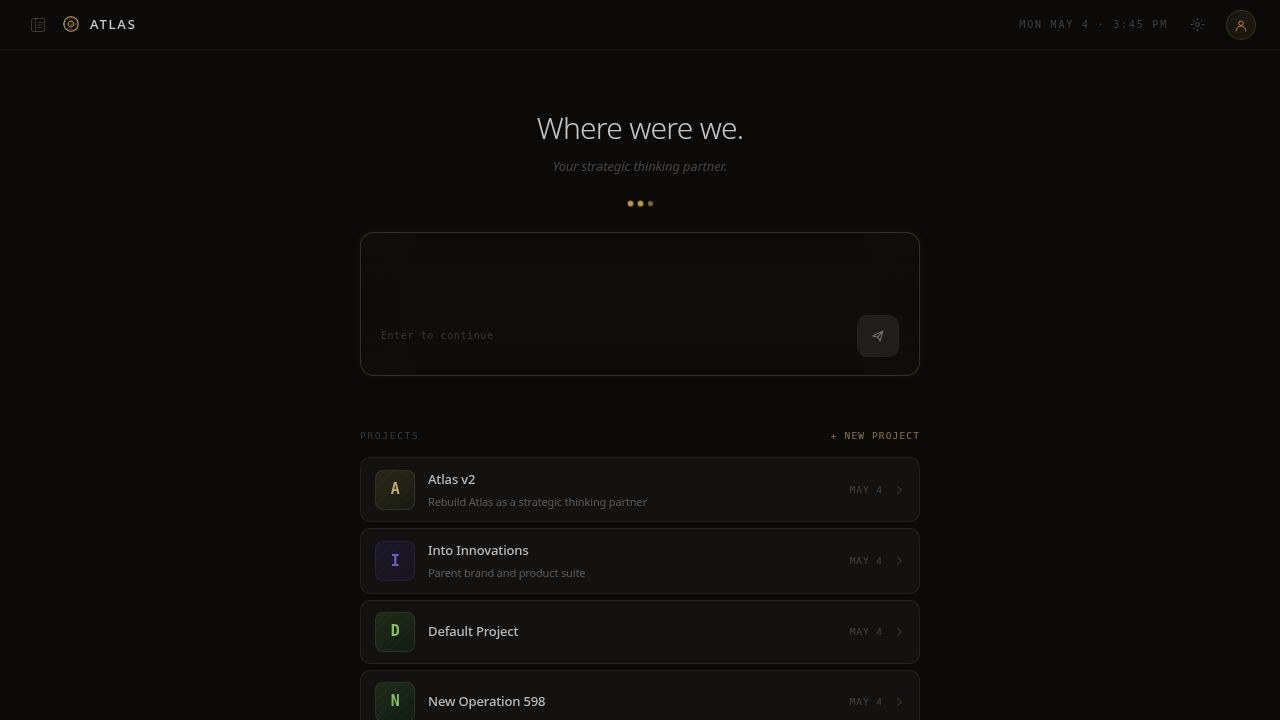
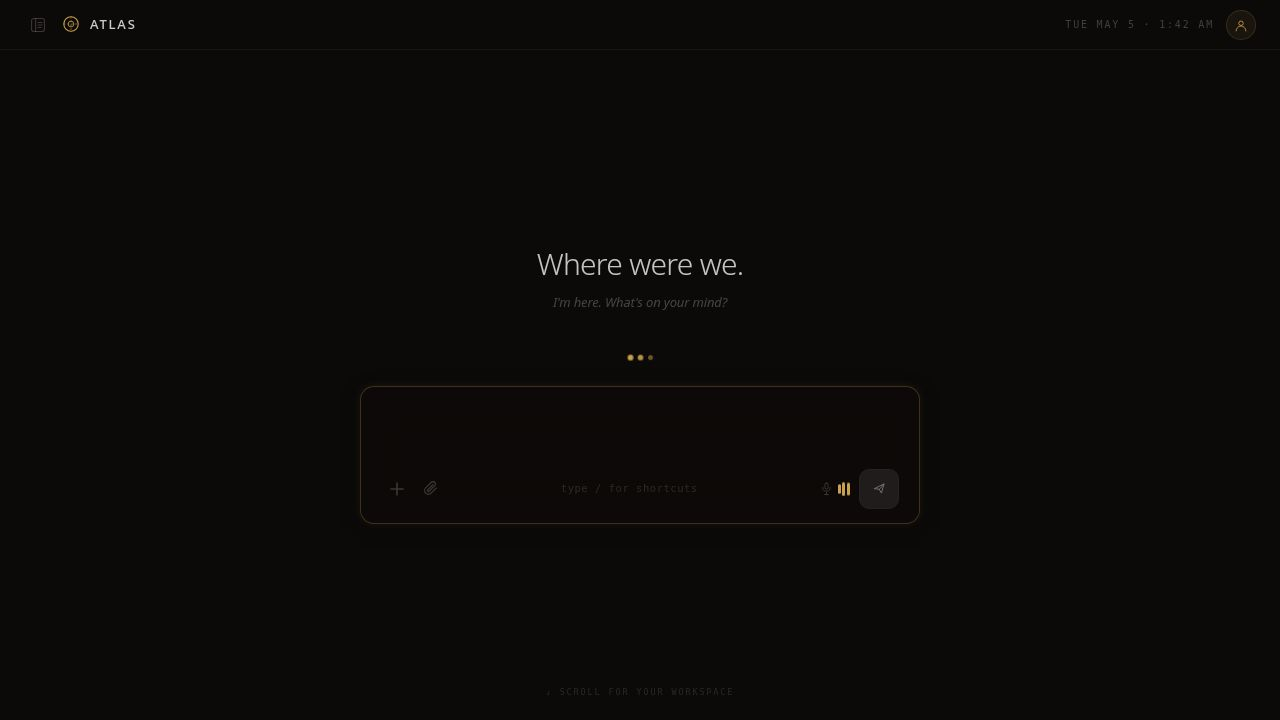
Add image generation capabilities to the chat interface and persist GitHub token to database
Integrates Gemini API for image generation in chat, enhances project data model to include GitHub token and linked repository persistence in the database, and removes local storage for these items.

Replit-Commit-Author: Agent
Replit-Commit-Session-Id: f735b07f-eb8e-460e-8233-0bdf3df13fac
Replit-Commit-Checkpoint-Type: full_checkpoint
Replit-Commit-Event-Id: 39e0b95f-83c6-4024-aad7-1b97ee8aeea6
Replit-Commit-Screenshot-Url: https://storage.googleapis.com/screenshot-production-us-central1/fee20bc2-8f8b-480d-9a00-8a020487f43d/f735b07f-eb8e-460e-8233-0bdf3df13fac/1sIiY6F
Replit-Helium-Checkpoint-Created: true

diff --git a/artifacts/atlas/src/pages/workspace.tsx b/artifacts/atlas/src/pages/workspace.tsx
@@ -55,6 +55,8 @@ interface ChatMessage {
   fileEdits?: FileEdit[];
   memoryChips?: string[];
   sentAt?: string;
+  imageB64?: string;
+  imageMimeType?: string;
 }
 
 interface LinkedRepo {
@@ -648,7 +650,8 @@ function GitHubPushModal({
   const [rollingBack, setRollingBack] = useState(false);
   const [rolledBack, setRolledBack] = useState(false);
 
-  const token = (() => { try { return localStorage.getItem("atlas-gh-token"); } catch { return null; } })();
+  const { data: modalProject } = useGetProject(projectId, { query: { queryKey: getGetProjectQueryKey(projectId) } });
+  const token = modalProject?.githubToken ?? null;
 
   useEffect(() => {
     if (!linkedRepo || !token) { setLoadingOriginals(false); return; }
@@ -978,6 +981,16 @@ function AssistantBubble({
                 {chip}
               </span>
             ))}
+          </div>
+        )}
+
+        {message.imageB64 && (
+          <div style={{ marginBottom: 12 }}>
+            <img
+              src={`data:${message.imageMimeType ?? "image/png"};base64,${message.imageB64}`}
+              alt="Generated visual"
+              style={{ maxWidth: "100%", borderRadius: 10, border: "1px solid rgba(201,162,76,0.2)", display: "block" }}
+            />
           </div>
         )}
 
@@ -1781,15 +1794,24 @@ function GhTreeNodeRow({
 function FilesTab({
   projectId,
   onFileContext,
+  onLinkedRepoChange,
 }: {
   projectId: number;
   onFileContext: (ctx: string | null) => void;
+  onLinkedRepoChange: (repo: LinkedRepo | null) => void;
 }) {
-  const linkedKey = `atlas-gh-linked-${projectId}`;
-
-  const [tokenState, setTokenState] = useState<string | null>(() => {
-    try { return localStorage.getItem("atlas-gh-token"); } catch { return null; }
+  const updateProject = useUpdateProject();
+  const { data: filesProject } = useGetProject(projectId, {
+    query: { queryKey: getGetProjectQueryKey(projectId) },
   });
+
+  const [tokenState, setTokenState] = useState<string | null>(null);
+  const tokenSynced = useRef(false);
+  useEffect(() => {
+    if (!filesProject || tokenSynced.current) return;
+    tokenSynced.current = true;
+    setTokenState(filesProject.githubToken ?? null);
+  }, [filesProject]);
   const [tokenInput, setTokenInput] = useState("");
   const [repos, setRepos] = useState<GhRepo[]>([]);
   const [reposLoading, setReposLoading] = useState(false);
@@ -1819,12 +1841,12 @@ function FilesTab({
   }, [projectId]);
 
   const saveToken = (t: string) => {
-    try { localStorage.setItem("atlas-gh-token", t); } catch {}
+    updateProject.mutate({ id: projectId, data: { githubToken: t } });
     setTokenState(t);
   };
 
   const clearToken = () => {
-    try { localStorage.removeItem("atlas-gh-token"); } catch {}
+    updateProject.mutate({ id: projectId, data: { githubToken: null } });
     setTokenState(null);
     setRepos([]); setSelectedRepo(null); setTree([]);
     setSelectedPath(null); setFileContent(null);
@@ -1872,30 +1894,30 @@ function FilesTab({
     }
   }, [ghFetch, onFileContext]);
 
-  // Auto-load linked repo once repos are available
+  // Auto-load linked repo once repos are available (from DB)
   useEffect(() => {
-    if (autoLoadedRef.current || repos.length === 0) return;
+    if (autoLoadedRef.current || repos.length === 0 || !filesProject?.linkedRepo) return;
     try {
-      const saved = localStorage.getItem(linkedKey);
-      if (!saved) return;
-      const savedRepo = JSON.parse(saved) as GhRepo;
+      const savedRepo = JSON.parse(filesProject.linkedRepo) as GhRepo;
       const match = repos.find(r => r.fullName === savedRepo.fullName);
       if (match) {
         autoLoadedRef.current = true;
         loadTree(match);
       }
     } catch {}
-  }, [repos, linkedKey, loadTree]);
+  }, [repos, filesProject?.linkedRepo, loadTree]);
 
   // Link a repo to this project and load its tree
   const pickRepo = useCallback((repo: GhRepo) => {
-    try { localStorage.setItem(linkedKey, JSON.stringify(repo)); } catch {}
+    updateProject.mutate({ id: projectId, data: { linkedRepo: JSON.stringify(repo) } });
+    onLinkedRepoChange(repo);
     loadTree(repo);
-  }, [linkedKey, loadTree]);
+  }, [projectId, updateProject, onLinkedRepoChange, loadTree]);
 
   // Unlink the repo from this project
   const unlinkRepo = useCallback(() => {
-    try { localStorage.removeItem(linkedKey); } catch {}
+    updateProject.mutate({ id: projectId, data: { linkedRepo: null } });
+    onLinkedRepoChange(null);
     autoLoadedRef.current = false;
     setSelectedRepo(null);
     setTree([]);
@@ -1903,7 +1925,7 @@ function FilesTab({
     setFileContent(null);
     setView("repos");
     onFileContext(null);
-  }, [linkedKey, onFileContext]);
+  }, [projectId, updateProject, onLinkedRepoChange, onFileContext]);
 
   const loadFile = useCallback(async (path: string) => {
     if (!selectedRepo) return;
@@ -2084,8 +2106,7 @@ function FilesTab({
           {!reposLoading && repos.map((repo) => {
             let linkedFullName: string | null = null;
             try {
-              const saved = localStorage.getItem(linkedKey);
-              linkedFullName = saved ? JSON.parse(saved).fullName : null;
+              linkedFullName = filesProject?.linkedRepo ? JSON.parse(filesProject.linkedRepo).fullName : null;
             } catch {}
             const isLinked = linkedFullName === repo.fullName;
             return (
@@ -2231,13 +2252,9 @@ function PreviewTab({ projectId }: { projectId: number }) {
   const [devReloadKey, setDevReloadKey] = useState(0);
   const devLogRef = useRef<HTMLDivElement>(null);
 
-  const linkedRepo = (() => {
-    try {
-      const raw = localStorage.getItem(`atlas-gh-linked-${projectId}`);
-      return raw ? JSON.parse(raw) as { fullName: string; defaultBranch?: string } : null;
-    } catch { return null; }
-  })();
-  const token = (() => { try { return localStorage.getItem("atlas-gh-token"); } catch { return null; } })();
+  const { data: previewProject } = useGetProject(projectId, { query: { queryKey: getGetProjectQueryKey(projectId) } });
+  const linkedRepo = (() => { try { return previewProject?.linkedRepo ? JSON.parse(previewProject.linkedRepo) as { fullName: string; defaultBranch?: string } : null; } catch { return null; } })();
+  const token = previewProject?.githubToken ?? null;
 
   // Poll dev server status when in local mode
   useEffect(() => {
@@ -2805,13 +2822,9 @@ function MapTab({ projectId }: { projectId: number }) {
   const [error, setError] = useState<string | null>(null);
   const [savedToMemory, setSavedToMemory] = useState(false);
 
-  const token = (() => { try { return localStorage.getItem("atlas-gh-token"); } catch { return null; } })();
-  const linkedRepo = (() => {
-    try {
-      const raw = localStorage.getItem(`atlas-gh-linked-${projectId}`);
-      return raw ? JSON.parse(raw) as { fullName: string; defaultBranch: string } : null;
-    } catch { return null; }
-  })();
+  const { data: mapProject } = useGetProject(projectId, { query: { queryKey: getGetProjectQueryKey(projectId) } });
+  const token = mapProject?.githubToken ?? null;
+  const linkedRepo = (() => { try { return mapProject?.linkedRepo ? JSON.parse(mapProject.linkedRepo) as { fullName: string; defaultBranch: string } : null; } catch { return null; } })();
 
   const handleScan = async () => {
     if (!linkedRepo || !token) return;
@@ -3175,6 +3188,7 @@ function RightPanel({
   fullscreen,
   onToggleFullscreen,
   onFileContext,
+  onLinkedRepoChange,
   pushHistory,
   onRollbackPush,
 }: {
@@ -3185,6 +3199,7 @@ function RightPanel({
   fullscreen?: boolean;
   onToggleFullscreen?: () => void;
   onFileContext: (ctx: string | null) => void;
+  onLinkedRepoChange: (repo: LinkedRepo | null) => void;
   pushHistory: PushRecord[];
   onRollbackPush: (record: PushRecord) => Promise<void>;
 }) {
@@ -3362,7 +3377,7 @@ function RightPanel({
       {tab === "ledger" && (
         <LedgerTab projectId={projectId} entries={entries} activeCatch={activeCatch} pushHistory={pushHistory} onRollbackPush={onRollbackPush} />
       )}
-      {tab === "files" && <FilesTab projectId={projectId} onFileContext={onFileContext} />}
+      {tab === "files" && <FilesTab projectId={projectId} onFileContext={onFileContext} onLinkedRepoChange={onLinkedRepoChange} />}
       {tab === "preview" && <PreviewTab projectId={projectId} />}
       {tab === "memory" && <MemoryTab projectId={projectId} />}
       {tab === "map" && <MapTab projectId={projectId} />}
@@ -3394,12 +3409,7 @@ export default function Workspace() {
   const [rightFullscreen, setRightFullscreen] = useState(false);
   const [fileContext, setFileContext] = useState<string | null>(null);
   const [chatPending, setChatPending] = useState(false);
-  const [linkedRepo, setLinkedRepo] = useState<LinkedRepo | null>(() => {
-    try {
-      const raw = localStorage.getItem(`atlas-gh-linked-${Number(projectId)}`);
-      return raw ? JSON.parse(raw) as LinkedRepo : null;
-    } catch { return null; }
-  });
+  const [linkedRepo, setLinkedRepo] = useState<LinkedRepo | null>(null);
 
   const bottomRef = useRef<HTMLDivElement>(null);
   const textareaRef = useRef<HTMLTextAreaElement>(null);
@@ -3435,6 +3445,15 @@ export default function Workspace() {
       }))
     );
   }, [priorMessages]);
+
+  // Sync linkedRepo from project DB when project loads
+  useEffect(() => {
+    if (!project?.linkedRepo) return;
+    try {
+      const repo = JSON.parse(project.linkedRepo) as LinkedRepo;
+      setLinkedRepo(repo);
+    } catch {}
+  }, [project?.linkedRepo]);
 
   // Persist last visited project for footer LEDGER shortcut
   useEffect(() => {
@@ -3501,6 +3520,7 @@ export default function Workspace() {
             sentAt: new Date().toISOString(),
             ...(fes.length > 0 ? { fileEdits: fes, fileEdit: fes[0] } : {}),
             ...(chips.length > 0 ? { memoryChips: chips } : {}),
+            ...(res.imageB64 ? { imageB64: res.imageB64, imageMimeType: res.imageMimeType } : {}),
           }]);
           if (cp) setActiveCatch(cp);
           if (res.memoryChips && res.memoryChips.length > 0) {
@@ -3619,7 +3639,7 @@ export default function Workspace() {
   );
 
   const handleRollbackPush = useCallback(async (record: PushRecord) => {
-    const token = (() => { try { return localStorage.getItem("atlas-gh-token"); } catch { return null; } })();
+    const token = project?.githubToken ?? null;
     if (!linkedRepo || !token || !record.originalContent) return;
     await fetch("/api/github/commit", {
       method: "PUT",
@@ -4052,6 +4072,7 @@ export default function Workspace() {
                 entries={entries || []}
                 activeCatch={activeCatch}
                 onFileContext={setFileContext}
+                onLinkedRepoChange={setLinkedRepo}
                 pushHistory={pushHistory}
                 onRollbackPush={handleRollbackPush}
               />
@@ -4100,6 +4121,7 @@ export default function Workspace() {
                 fullscreen={rightFullscreen}
                 onToggleFullscreen={() => setRightFullscreen((f) => !f)}
                 onFileContext={setFileContext}
+                onLinkedRepoChange={setLinkedRepo}
                 pushHistory={pushHistory}
                 onRollbackPush={handleRollbackPush}
               />

diff --git a/artifacts/api-server/src/routes/chat.ts b/artifacts/api-server/src/routes/chat.ts
@@ -1,7 +1,12 @@
 import { Router, type IRouter } from "express";
 import Anthropic from "@anthropic-ai/sdk";
+import { GoogleGenAI } from "@google/genai";
 import { db, chatMessagesTable, sessionsTable, projectsTable } from "@workspace/db";
 import { eq, sql } from "drizzle-orm";
+
+const genai = new GoogleGenAI({ apiKey: process.env.GOOGLE_GEMINI_API_KEY! });
+
+const IMAGE_REQUEST_RE = /\b(generate|create|make|draw|sketch|visualize|design|mock.?up|wireframe|show me|build me)\b.{0,60}\b(image|picture|visual|ui|screen|layout|logo|icon|banner|mockup|diagram|chart|graphic|illustration)\b/i;
 
 const router: IRouter = Router();
 
@@ -449,6 +454,28 @@ router.post("/chat", async (req, res): Promise<void> => {
     .set({ messageCount: sql`${sessionsTable.messageCount} + 2` })
     .where(eq(sessionsTable.id, sessionId));
 
+  // Attempt image generation if the user's message looks like an image request
+  let imageB64: string | undefined;
+  let imageMimeType: string | undefined;
+  if (IMAGE_REQUEST_RE.test(message)) {
+    try {
+      const imagePrompt = `${message}. Clean, professional style. For a software product / startup context.`;
+      const imgResponse = await genai.models.generateContent({
+        model: "gemini-2.0-flash-preview-image-generation",
+        contents: imagePrompt,
+        config: { responseModalities: ["IMAGE", "TEXT"] },
+      });
+      const parts = imgResponse.candidates?.[0]?.content?.parts ?? [];
+      const imgPart = parts.find((p: any) => p.inlineData?.mimeType?.startsWith("image/"));
+      if (imgPart?.inlineData) {
+        imageB64 = imgPart.inlineData.data as string;
+        imageMimeType = imgPart.inlineData.mimeType as string;
+      }
+    } catch {
+      // Image generation is best-effort; don't fail the chat response
+    }
+  }
+
   res.json({
     content: finalContent,
     intentType: null,
@@ -458,6 +485,7 @@ router.post("/chat", async (req, res): Promise<void> => {
     memoryUpdated: newFacts.length > 0,
     fileEdits: fileEdits.length > 0 ? fileEdits : undefined,
     fileEdit: fileEdits.length > 0 ? fileEdits[0] : undefined,
+    ...(imageB64 ? { imageB64, imageMimeType } : {}),
   });
 });
 

diff --git a/lib/db/src/schema/projects.ts b/lib/db/src/schema/projects.ts
@@ -9,6 +9,8 @@ export const projectsTable = pgTable("projects", {
   status: text("status").notNull().default("active"),
   memory: text("memory"),
   previewUrl: text("preview_url"),
+  githubToken: text("github_token"),
+  linkedRepo: text("linked_repo"),
   createdAt: timestamp("created_at", { withTimezone: true }).notNull().defaultNow(),
   updatedAt: timestamp("updated_at", { withTimezone: true }).notNull().defaultNow().$onUpdate(() => new Date()),
 });

diff --git a/lib/api-zod/src/index.ts b/lib/api-zod/src/index.ts
@@ -1,2 +1,1 @@
 export * from "./generated/api";
-export * from "./generated/types";